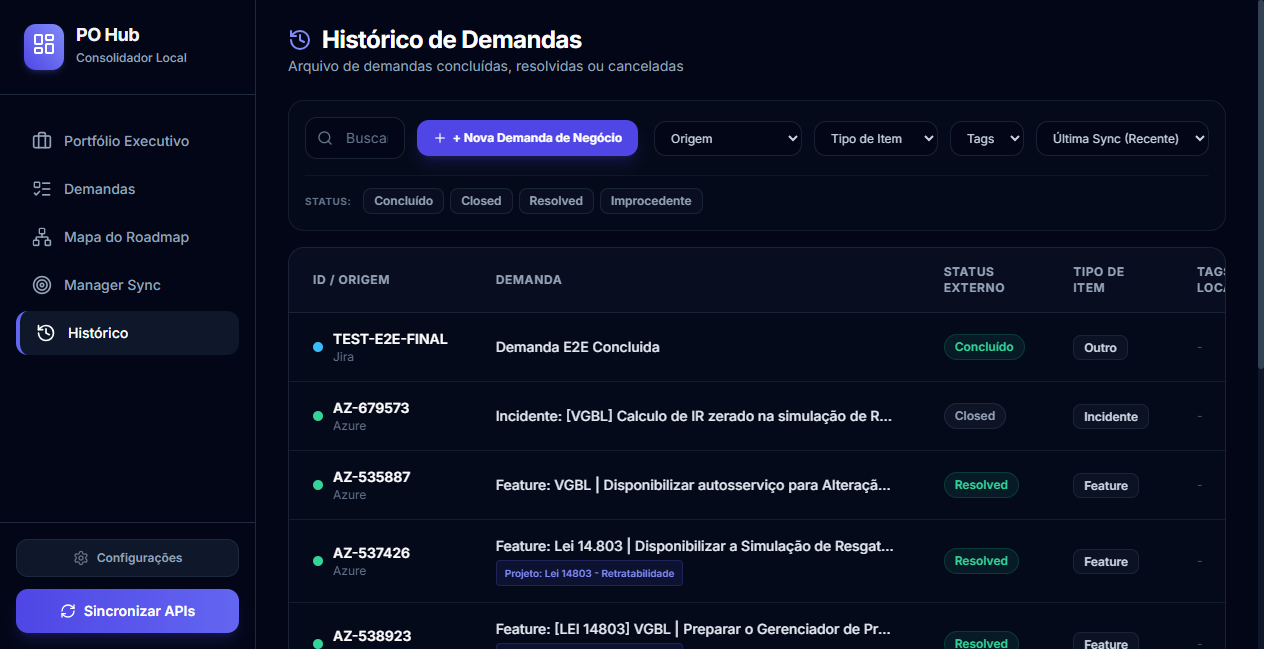
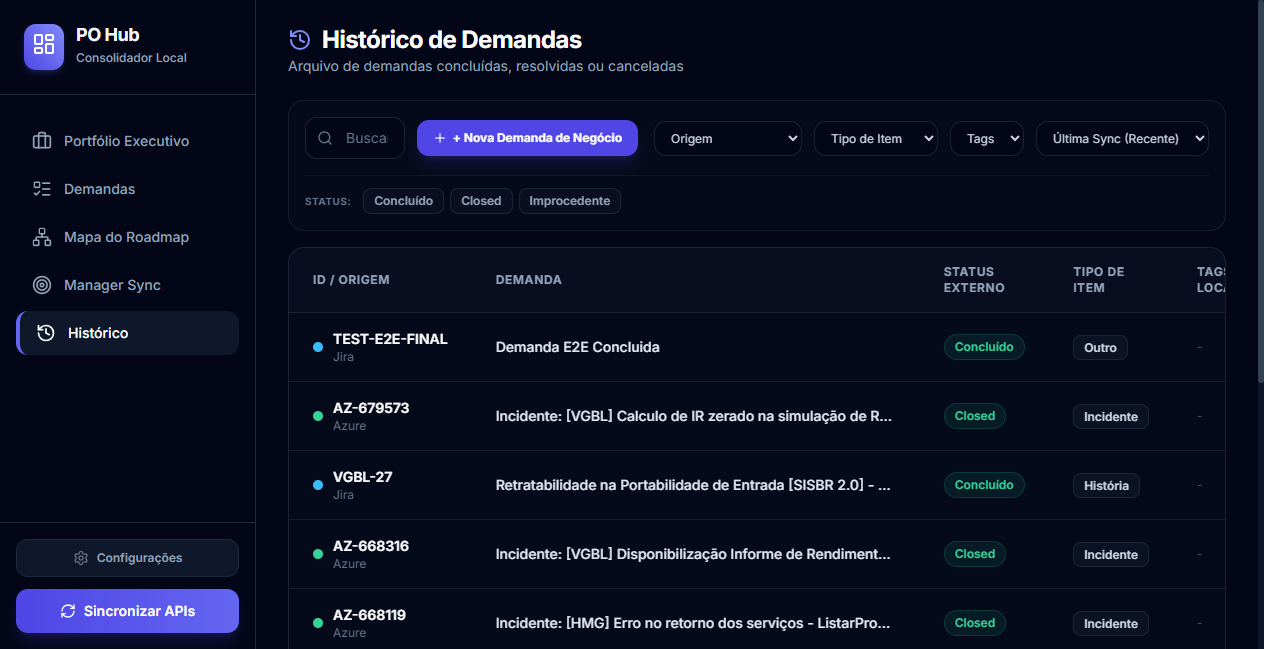
refactor(status): treat Azure DevOps Resolved status as active/in-progress and Closed as completed

diff --git a/backend/static/index.html b/backend/static/index.html
@@ -626,9 +626,9 @@
                         </td>
                         <td className="px-6 py-4 whitespace-nowrap">
                           <span className={`inline-flex items-center px-2.5 py-1 rounded-full text-xs font-semibold ${
-                            demand.externalStatus === 'Concluído' || demand.externalStatus === 'Resolved' || demand.externalStatus === 'Done'
+                            demand.externalStatus === 'Concluído' || demand.externalStatus === 'Concluido' || demand.externalStatus === 'Done' || demand.externalStatus === 'Closed'
                               ? 'bg-emerald-500/10 text-emerald-400 border border-emerald-500/20'
-                              : demand.externalStatus === 'Em Progresso' || demand.externalStatus === 'Desenvolvimento' || demand.externalStatus === 'Doing'
+                              : demand.externalStatus === 'Em Progresso' || demand.externalStatus === 'Desenvolvimento' || demand.externalStatus === 'Doing' || demand.externalStatus === 'Resolved' || demand.externalStatus === 'Active' || demand.externalStatus === 'Em andamento'
                               ? 'bg-amber-500/10 text-amber-400 border border-amber-500/20'
                               : 'bg-slate-500/10 text-slate-400 border border-slate-500/20'
                           }`}>
@@ -2301,9 +2301,9 @@
             <div className="flex items-center justify-between gap-3">
               <span className="text-[10px] font-bold text-slate-400 uppercase tracking-wider">{demand.externalId}</span>
               <span className={`text-[9px] font-bold px-2 py-0.5 rounded-full ${
-                demand.externalStatus === 'Concluído' || demand.externalStatus === 'Resolved' || demand.externalStatus === 'Done'
+                demand.externalStatus === 'Concluído' || demand.externalStatus === 'Concluido' || demand.externalStatus === 'Done' || demand.externalStatus === 'Closed'
                   ? 'bg-emerald-500/10 text-emerald-400 border border-emerald-500/20'
-                  : demand.externalStatus === 'Em Progresso' || demand.externalStatus === 'Desenvolvimento' || demand.externalStatus === 'Doing'
+                  : demand.externalStatus === 'Em Progresso' || demand.externalStatus === 'Desenvolvimento' || demand.externalStatus === 'Doing' || demand.externalStatus === 'Resolved' || demand.externalStatus === 'Active' || demand.externalStatus === 'Em andamento'
                   ? 'bg-amber-500/10 text-amber-400 border border-amber-500/20'
                   : 'bg-slate-800 text-slate-400 border border-slate-700/50'
               }`}>
@@ -3150,8 +3150,9 @@
       const isInProgress = (status) => {
         if (!status) return false;
         const s = status.trim().toLowerCase();
+        // Resolved é considerado ainda em andamento. Closed é que a demanda foi efetivamente concluída.
         const inactive = [
-          'concluído', 'concluido', 'done', 'resolved', 'closed', 'fechado',
+          'concluído', 'concluido', 'done', 'closed', 'fechado',
           'backlog', 'a fazer', 'to do', 'removed', 'removido', 'cancelado', 'canceled'
         ];
         return !inactive.includes(s);
@@ -3931,8 +3932,8 @@
               )}
             </span>
             <span className={`inline-flex items-center px-2 py-0.5 rounded-full text-[10px] font-bold ${
-              demand.externalStatus === 'Concluído' || demand.externalStatus === 'Resolved' || demand.externalStatus === 'Done' ? 'bg-emerald-500/10 text-emerald-400 border border-emerald-500/20' :
-              demand.externalStatus === 'Em Progresso' || demand.externalStatus === 'Desenvolvimento' || demand.externalStatus === 'Doing' ? 'bg-amber-500/10 text-amber-400 border border-amber-500/20' :
+              demand.externalStatus === 'Concluído' || demand.externalStatus === 'Concluido' || demand.externalStatus === 'Done' || demand.externalStatus === 'Closed' ? 'bg-emerald-500/10 text-emerald-400 border border-emerald-500/20' :
+              demand.externalStatus === 'Em Progresso' || demand.externalStatus === 'Desenvolvimento' || demand.externalStatus === 'Doing' || demand.externalStatus === 'Resolved' || demand.externalStatus === 'Active' || demand.externalStatus === 'Em andamento' ? 'bg-amber-500/10 text-amber-400 border border-amber-500/20' :
               isBlocked || demand.externalStatus === 'Blocked' ? 'bg-rose-500/10 text-rose-400 border border-rose-500/20' :
               'bg-slate-800 text-slate-400 border border-slate-700'
             }`}>

diff --git a/frontend/src/components/ProjectOverview.jsx b/frontend/src/components/ProjectOverview.jsx
@@ -149,8 +149,9 @@ export default function ProjectOverview({ projectId, onBack, onSelectDemand }) {
   const isInProgress = (status) => {
     if (!status) return false;
     const s = status.trim().toLowerCase();
+    // Resolved é considerado ainda em andamento. Closed é que a demanda foi efetivamente concluída.
     const inactive = [
-      'concluído', 'concluido', 'done', 'resolved', 'closed', 'fechado',
+      'concluído', 'concluido', 'done', 'closed', 'fechado',
       'backlog', 'a fazer', 'to do', 'removed', 'removido', 'cancelado', 'canceled'
     ];
     return !inactive.includes(s);
@@ -957,8 +958,8 @@ function DemandCard({ demand, onSelect }) {
           )}
         </span>
         <span className={`inline-flex items-center px-2 py-0.5 rounded-full text-[10px] font-bold ${
-          demand.externalStatus === 'Concluído' || demand.externalStatus === 'Resolved' || demand.externalStatus === 'Done' ? 'bg-emerald-500/10 text-emerald-400 border border-emerald-500/20' :
-          demand.externalStatus === 'Em Progresso' || demand.externalStatus === 'Desenvolvimento' || demand.externalStatus === 'Doing' ? 'bg-amber-500/10 text-amber-400 border border-emerald-500/20' :
+          demand.externalStatus === 'Concluído' || demand.externalStatus === 'Concluido' || demand.externalStatus === 'Done' || demand.externalStatus === 'Closed' ? 'bg-emerald-500/10 text-emerald-400 border border-emerald-500/20' :
+          demand.externalStatus === 'Em Progresso' || demand.externalStatus === 'Desenvolvimento' || demand.externalStatus === 'Doing' || demand.externalStatus === 'Resolved' || demand.externalStatus === 'Active' || demand.externalStatus === 'Em andamento' ? 'bg-amber-500/10 text-amber-400 border border-emerald-500/20' :
           isBlocked || demand.externalStatus === 'Blocked' ? 'bg-rose-500/10 text-rose-400 border border-rose-500/20' :
           'bg-slate-800 text-slate-400 border border-slate-700'
         }`}>

diff --git a/frontend/src/components/DemandTable.jsx b/frontend/src/components/DemandTable.jsx
@@ -363,9 +363,9 @@ export default function DemandTable({ demands, onSelectDemand, onRefreshDemands 
                     </td>
                     <td className="px-6 py-4 whitespace-nowrap">
                       <span className={`inline-flex items-center px-2.5 py-1 rounded-full text-xs font-semibold ${
-                        demand.externalStatus === 'Concluído' || demand.externalStatus === 'Resolved' || demand.externalStatus === 'Done'
+                        demand.externalStatus === 'Concluído' || demand.externalStatus === 'Concluido' || demand.externalStatus === 'Done' || demand.externalStatus === 'Closed'
                           ? 'bg-emerald-500/10 text-emerald-400 border border-emerald-500/20'
-                          : demand.externalStatus === 'Em Progresso' || demand.externalStatus === 'Desenvolvimento' || demand.externalStatus === 'Doing'
+                          : demand.externalStatus === 'Em Progresso' || demand.externalStatus === 'Desenvolvimento' || demand.externalStatus === 'Doing' || demand.externalStatus === 'Resolved' || demand.externalStatus === 'Active' || demand.externalStatus === 'Em andamento'
                           ? 'bg-amber-500/10 text-amber-400 border border-amber-500/20'
                           : 'bg-slate-500/10 text-slate-400 border border-slate-500/20'
                       }`}>

diff --git a/frontend/src/components/ProjectView.jsx b/frontend/src/components/ProjectView.jsx
@@ -338,9 +338,9 @@ function DemandProjectCard({ demand, onSelect }) {
         <div className="flex items-center justify-between gap-3">
           <span className="text-[10px] font-bold text-slate-400 uppercase tracking-wider">{demand.externalId}</span>
           <span className={`text-[9px] font-bold px-2 py-0.5 rounded-full ${
-            demand.externalStatus === 'Concluído' || demand.externalStatus === 'Resolved' || demand.externalStatus === 'Done'
+            demand.externalStatus === 'Concluído' || demand.externalStatus === 'Concluido' || demand.externalStatus === 'Done' || demand.externalStatus === 'Closed'
               ? 'bg-emerald-500/10 text-emerald-400 border border-emerald-500/20'
-              : demand.externalStatus === 'Em Progresso' || demand.externalStatus === 'Desenvolvimento' || demand.externalStatus === 'Doing'
+              : demand.externalStatus === 'Em Progresso' || demand.externalStatus === 'Desenvolvimento' || demand.externalStatus === 'Doing' || demand.externalStatus === 'Resolved' || demand.externalStatus === 'Active' || demand.externalStatus === 'Em andamento'
               ? 'bg-amber-500/10 text-amber-400 border border-amber-500/20'
               : 'bg-slate-800 text-slate-400 border border-slate-700/50'
           }`}>

diff --git a/backend/main.py b/backend/main.py
@@ -179,7 +179,9 @@ def get_external_url(origin: str, external_id: str):
 
 # API Endpoints Helpers & Business Logic
 
-FINAL_STATUSES = {"Concluído", "Done", "Resolved", "Closed", "Improcedente", "Cancelado"}
+# Resolved não é considerado concluído (continua em andamento).
+# Apenas Closed (ou equivalente final) indica que foi efetivamente concluído.
+FINAL_STATUSES = {"Concluído", "Done", "Closed", "Improcedente", "Cancelado"}
 FINAL_STATUSES_LOWER = {s.lower() for s in FINAL_STATUSES}
 
 def is_final_status(status):
@@ -638,7 +640,8 @@ def is_status_active(status):
         return False
     status_lower = status.strip().lower()
     # List of known non-active/finished/backlog/todo statuses
-    inactive = {"concluído", "concluido", "done", "resolved", "closed", "fechado", "backlog", "a fazer", "to do", "removed", "removido", "cancelado", "canceled"}
+    # Resolved é considerado ainda em andamento. Closed é que a demanda foi efetivamente concluída.
+    inactive = {"concluído", "concluido", "done", "closed", "fechado", "backlog", "a fazer", "to do", "removed", "removido", "cancelado", "canceled"}
     return status_lower not in inactive
 
 def get_demands_data(db_name="ativo"):
@@ -1468,8 +1471,8 @@ async def get_project_overview(project_id: int):
                 
             if d.get("promisedDate"):
                 promised_str = d["promisedDate"].strip()
-                status_lower = d["externalStatus"].strip().lower()
-                is_completed = status_lower in ("concluido", "concluído", "done", "closed", "fechado", "resolved")
+                # Resolved é considerado ainda em andamento. Closed é que a demanda foi efetivamente concluída.
+                is_completed = status_lower in ("concluido", "concluído", "done", "closed", "fechado")
                 
                 if not is_completed:
                     try:

diff --git a/backend/run_e2e_test.py b/backend/run_e2e_test.py
@@ -130,7 +130,8 @@ def run_test():
             found_final = False
             found_active = False
             
-            final_statuses = {"Concluído", "Done", "Resolved", "Closed", "Improcedente", "Cancelado"}
+            # Resolved é considerado ainda em andamento. Closed é que a demanda foi efetivamente concluída.
+            final_statuses = {"Concluído", "Done", "Closed", "Improcedente", "Cancelado"}
             for idx, row in enumerate(history_rows):
                 cols = row.find_elements(By.TAG_NAME, "td")
                 if len(cols) >= 3: